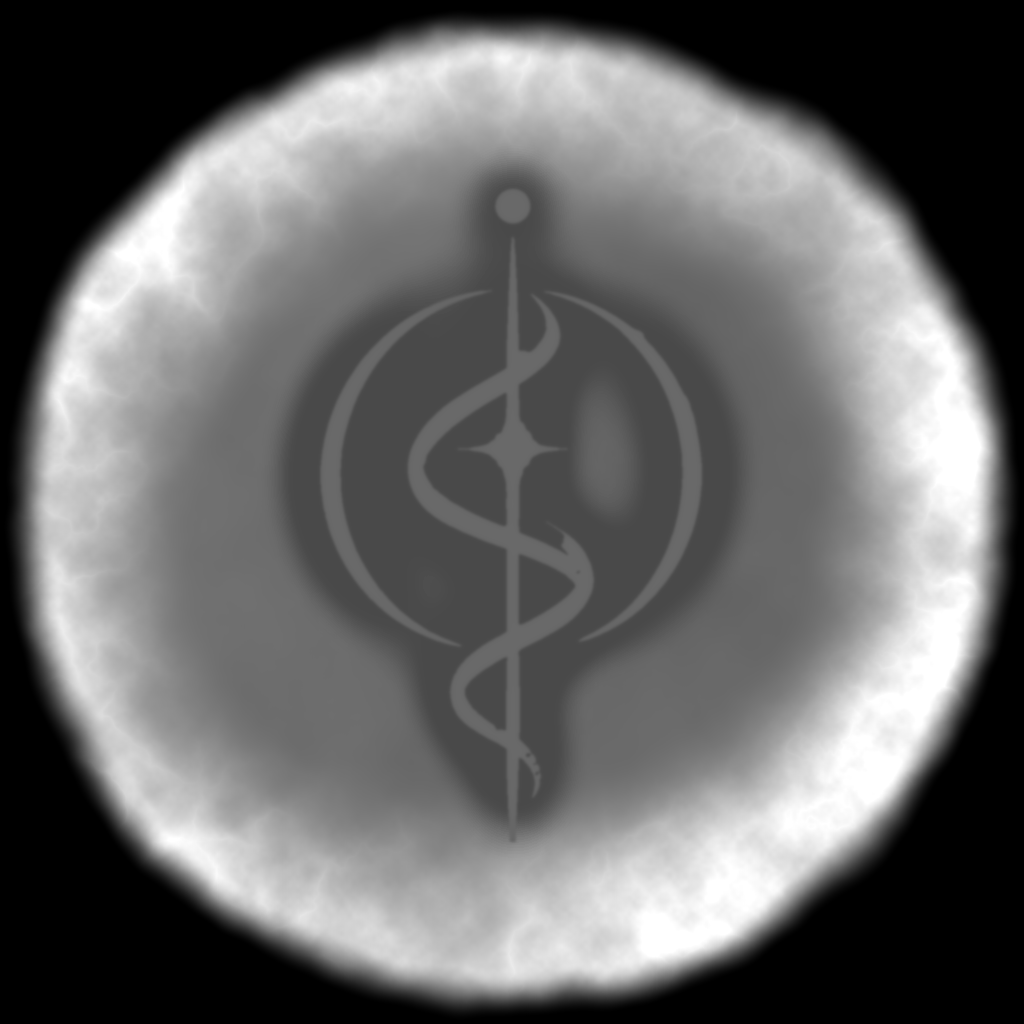
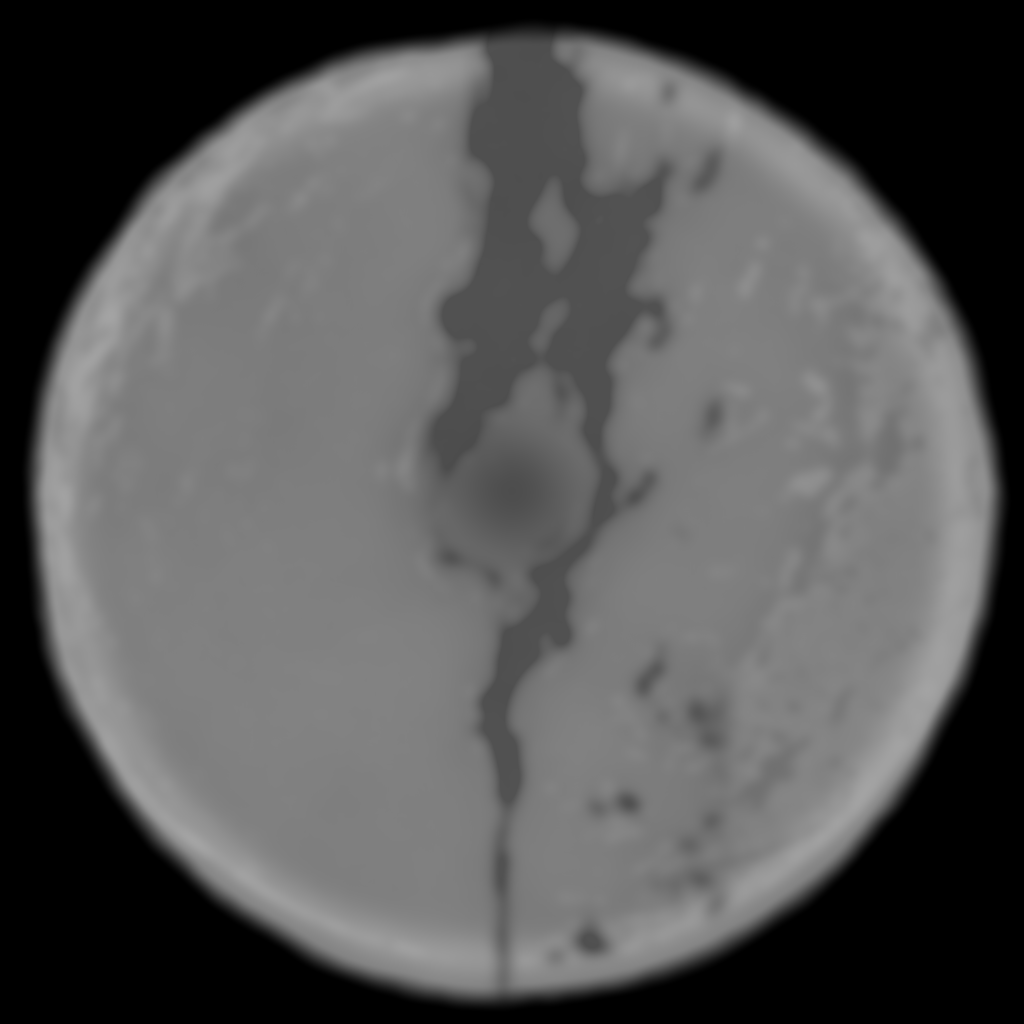
Troca o relevo da ilha pela lua rachada de A Ordem, com a fenda de Metrito e os fragmentos em coluna

diff --git a/src/components/MundoOrdem.jsx b/src/components/MundoOrdem.jsx
@@ -3,13 +3,14 @@ import * as THREE from "three";
 import urlAltura from "../assets/terreno/altura.png";
 import urlCor from "../assets/terreno/cor.jpg";
 import urlBrilho from "../assets/terreno/brilho.png";
-import urlEmblema from "../assets/emblema.png";
+import urlEmblema from "../assets/emblema-titulo.png";
 
 // ─────────────────────────────────────────────
-// MUNDO 3D DA ABERTURA — o Terreno Suspenso do emblema
+// MUNDO 3D DA ABERTURA — a lua rachada de A Ordem
 // Uma ilha flutuante cujo relevo sai de src/assets/terreno/altura.png, gerado a
-// partir do emblema dos Scrips (scripts/gerar_terreno.py). O emblema brilha como
-// Metrito no meio de um lago, e as escolas da Ordem são luzes nas montanhas.
+// partir do emblema de A Ordem (scripts/gerar_terreno.py): o disco da lua partido
+// por uma fenda onde o Metrito brilha, com os fragmentos subindo num feixe de luz.
+// As escolas da Ordem são luzes no planalto.
 // Rolar move a câmera; arrastar gira a ilha; clicar numa luz abre a escola.
 // ─────────────────────────────────────────────
 
@@ -351,29 +352,39 @@ export default function MundoOrdem({ escolas = [], onEscola, children }) {
     // A ilha (montada quando as imagens do terreno chegam) e as ilhas menores ao longe
     const ilha = new THREE.Group();
     scene.add(ilha);
-    const matRocha = g(new THREE.MeshStandardMaterial({ color: "#24343c", roughness: 0.92, metalness: 0.05 }));
     const matBase = g(new THREE.MeshStandardMaterial({ color: "#141d22", roughness: 1, flatShading: true }));
 
-    const satelites = [
-      [-17, -2.5, -9, 1.6],
-      [15, 1.5, -14, 1.2],
-      [19, -4, 6, 2],
-      [-14, 2.5, 13, 1.1],
-      [3, -5, -22, 1.8],
-    ];
-    satelites.forEach(([x, y, z, s], i) => {
-      const grupo = new THREE.Group();
-      const topo = new THREE.Mesh(g(new THREE.CylinderGeometry(1, 0.9, 0.3, 24)), matRocha.clone());
-      topo.material.vertexColors = false;
-      topo.material.color.set("#24343c");
-      g(topo.material);
-      grupo.add(topo);
-      grupo.add(new THREE.Mesh(g(malhaBase(1, 2.4, i * 7.7)), matBase));
-      grupo.position.set(x, y, z);
-      grupo.scale.setScalar(s);
-      grupo.userData.fase = i;
-      scene.add(grupo);
-    });
+    // Fragmentos arrancados pela queda, subindo em coluna sobre a fenda
+    const geoFragmento = g(new THREE.IcosahedronGeometry(1, 1));
+    {
+      const p = geoFragmento.attributes.position;
+      const v = new THREE.Vector3();
+      for (let i = 0; i < p.count; i++) {
+        v.fromBufferAttribute(p, i);
+        v.multiplyScalar(0.75 + 0.5 * ruido(v.x * 2 + 5, v.y * 2 + v.z * 3));
+        p.setXYZ(i, v.x, v.y * 0.7, v.z);
+      }
+      geoFragmento.computeVertexNormals();
+    }
+    const matFragmento = g(new THREE.MeshStandardMaterial({ color: "#8f846f", roughness: 0.95, flatShading: true }));
+    for (let i = 0; i < 16; i++) {
+      const f = new THREE.Mesh(geoFragmento, matFragmento);
+      const subida = i / 15;
+      f.position.set((Math.random() - 0.4) * (0.8 + subida * 1.5), 2.2 + subida * 11 + Math.random() * 0.6, -0.4 + (Math.random() - 0.5) * 2.4);
+      f.scale.setScalar(0.12 + Math.random() * 0.35 * (1 - subida * 0.6));
+      f.rotation.set(Math.random() * 3, Math.random() * 3, Math.random() * 3);
+      f.userData.fase = i;
+      f.userData.gira = (Math.random() - 0.5) * 0.004;
+      scene.add(f);
+    }
+
+    // O risco vertical da arte: um feixe de luz atravessando a ilha
+    const feixeQueda = new THREE.Mesh(
+      g(new THREE.CylinderGeometry(0.025, 0.025, 40, 8, 1, true)),
+      g(new THREE.MeshBasicMaterial({ color: OURO, transparent: true, opacity: 0.35, blending: THREE.AdditiveBlending, depthWrite: false })),
+    );
+    feixeQueda.position.set(0, 6, -0.38);
+    scene.add(feixeQueda);
 
     // Mar de nuvens embaixo
     const matNuvem = g(new THREE.SpriteMaterial({ map: brilho, color: "#4c6378", transparent: true, opacity: 0.16, depthWrite: false }));
@@ -414,16 +425,6 @@ export default function MundoOrdem({ escolas = [], onEscola, children }) {
       const borda = r.altura(RAIO_ILHA, 0);
       ilha.add(new THREE.Mesh(g(malhaBase(RAIO_ILHA * 1.01, 7, 3.1, borda + 0.1)), matBase));
 
-      if (r.imagens) {
-        const lago = new THREE.Mesh(
-          g(new THREE.CircleGeometry(RAIO_ILHA * 0.97, 128)),
-          g(new THREE.MeshBasicMaterial({ color: "#071116", transparent: true, opacity: 0.86 })),
-        );
-        lago.rotation.x = -Math.PI / 2;
-        lago.position.y = 0.02;
-        ilha.add(lago);
-      }
-
       const pos = [];
       const fases = [];
       const cores = [];
@@ -434,7 +435,7 @@ export default function MundoOrdem({ escolas = [], onEscola, children }) {
         const z = (Math.random() * 2 - 1) * RAIO_ILHA * 0.8;
         const b = r.brilho(x, z);
         if (b < 0.35) continue;
-        pos.push(x, Math.max(r.altura(x, z), 0) + 0.05, z);
+        pos.push(x, r.altura(x, z) + 0.05, z);
         fases.push(Math.random());
         cores.push(ouro.r * b, ouro.g * b, ouro.b * b);
         sobe.push(Math.random() < 0.35 ? 0.4 : 0);
@@ -446,9 +447,9 @@ export default function MundoOrdem({ escolas = [], onEscola, children }) {
       geo.setAttribute("sobe", new THREE.Float32BufferAttribute(sobe, 1));
       ilha.add(new THREE.Points(geo, matPoeira));
 
-      // A estrela do emblema fica um pouco acima do centro da imagem
-      const zEstrela = r.imagens ? -1.1 : 0;
-      nucleo.position.set(0, Math.max(r.altura(0, zEstrela), 0) + 0.3, zEstrela);
+      // A cratera no meio da rachadura fica um pouco acima do centro da arte
+      const zEstrela = r.imagens ? -0.38 : 0;
+      nucleo.position.set(0, r.altura(0, zEstrela) + 0.3, zEstrela);
       metrito.position.set(0, nucleo.position.y + 0.4, zEstrela);
       ilha.add(nucleo);
       montarEscolas(escolasPendentes);
@@ -472,7 +473,7 @@ export default function MundoOrdem({ escolas = [], onEscola, children }) {
         brasas.geometry.dispose();
         brasas = null;
       }
-      const raios = [7.3, 7.6];
+      const raios = [6.2, 6.6];
       const pBrasa = [];
       const fBrasa = [];
       const cBrasa = [];
@@ -590,6 +591,10 @@ export default function MundoOrdem({ escolas = [], onEscola, children }) {
         ilha.position.y = Math.sin(t * 0.4) * 0.12;
         scene.children.forEach((o) => {
           if (o.userData.fase != null) o.position.y += Math.sin(t * 0.3 + o.userData.fase) * 0.002;
+          if (o.userData.gira) {
+            o.rotation.x += o.userData.gira;
+            o.rotation.y += o.userData.gira * 0.7;
+          }
         });
       }
       matPoeira.uniforms.tempo.value = t;
@@ -751,8 +756,7 @@ export default function MundoOrdem({ escolas = [], onEscola, children }) {
         {!entrou && (
           <div style={st.portao}>
             <img src={urlEmblema} alt="Emblema dos Scrips" style={st.emblema} />
-            <p style={st.portaoTitulo}>A QUEDA DE UMA ORDEM</p>
-            <p style={st.portaoFrase}>Diferentes por natureza. Unidos pela mesma origem.</p>
+            <p style={st.portaoFrase}>“Esqueça tudo o que acredita saber. O que vou te revelar... muda tudo.”</p>
             <div style={st.portaoBotoes}>
               <button type="button" style={st.portaoBotao} onClick={() => entrar(true)}>
                 ENTRAR COM SOM
@@ -846,8 +850,7 @@ const st = {
     padding: "24px",
     textAlign: "center",
   },
-  emblema: { height: "min(320px, 42vh)", width: "auto", marginBottom: 4 },
-  portaoTitulo: { margin: 0, letterSpacing: "6px", fontSize: "0.9em", color: "#e8d08a" },
+  emblema: { height: "min(400px, 50vh)", width: "auto", marginBottom: 4 },
   portaoFrase: { margin: 0, maxWidth: 420, fontStyle: "italic", color: "#8a7a55", fontSize: "0.95em", lineHeight: 1.6 },
   portaoBotoes: { display: "flex", flexWrap: "wrap", gap: 12, justifyContent: "center", marginTop: 18 },
   portaoBotao: {

diff --git a/scripts/gerar_terreno.py b/scripts/gerar_terreno.py
@@ -1,12 +1,13 @@
-"""Gera as imagens do Terreno Suspenso a partir do emblema dos Scrips.
+"""Gera as imagens do Terreno Suspenso a partir do emblema de A Ordem (a lua rachada).
 
     python scripts/gerar_terreno.py
 
-Saídas em src/assets/terreno/:
-  altura.png  mapa de altura (claro = alto), lido pelo MundoOrdem.jsx
-  cor.jpg     cor do terreno (rocha, musgo, água, bronze no emblema)
-  brilho.png  onde o Metrito brilha (o emblema)
-e src/assets/emblema.png, o símbolo recortado com fundo transparente.
+Saídas:
+  src/assets/terreno/altura.png  mapa de altura (claro = alto), lido pelo MundoOrdem.jsx
+  src/assets/terreno/cor.jpg     cor do terreno, nos tons da arte (osso sobre rocha escura)
+  src/assets/terreno/brilho.png  onde o Metrito brilha (a fenda e a cratera)
+  src/assets/emblema.png         o símbolo recortado, para o menu
+  src/assets/emblema-titulo.png  o símbolo com "A ORDEM", para a tela de entrada
 """
 from pathlib import Path
 
@@ -14,14 +15,17 @@ import numpy as np
 from PIL import Image, ImageFilter
 
 RAIZ = Path(__file__).resolve().parent.parent
-ORIGEM = RAIZ / "arte" / "emblema-scrips.png"
+ORIGEM = RAIZ / "arte" / "emblema-ordem.png"
 SAIDA = RAIZ / "src" / "assets" / "terreno"
 N = 1024
 rng = np.random.default_rng(7)
 
+# Onde a lua está na arte original (440 × 616)
+CX, CY, RAIO = 219, 290, 111
+FENDA_X = (200, 266)  # faixa onde corre a rachadura
+
 
 def ruido(oitavas=6, base=4, ganho=0.5):
-    """fbm entre 0 e 1: grades aleatórias ampliadas e somadas."""
     total = np.zeros((N, N))
     amp, soma = 1.0, 0.0
     for o in range(oitavas):
@@ -43,63 +47,68 @@ def suave(a, b, x):
     return t * t * (3 - 2 * t)
 
 
-# Emblema: recorta o símbolo (sem o texto "SCRIPS") e faz a máscara
+def recorte_transparente(img, caixa, altura):
+    parte = img.crop(caixa)
+    lum = np.asarray(parte.convert("L"), dtype=float)
+    alfa = np.clip((lum - 40) / 110, 0, 1)
+    rgba = np.dstack([np.asarray(parte), (alfa * 255).astype(np.uint8)])
+    largura = round(altura * parte.width / parte.height)
+    return Image.fromarray(rgba, "RGBA").resize((largura, altura), Image.LANCZOS)
+
+
 fonte = Image.open(ORIGEM).convert("RGB")
-simbolo = fonte.crop((180, 80, 840, 1160))
-lum = np.asarray(simbolo.convert("L"), dtype=float)
+recorte_transparente(fonte, (95, 60, 345, 430), 300).save(RAIZ / "src" / "assets" / "emblema.png", optimize=True)
+recorte_transparente(fonte, (40, 60, 400, 530), 560).save(RAIZ / "src" / "assets" / "emblema-titulo.png", optimize=True)
 
-alfa = np.clip((lum - 30) / 120, 0, 1)
-rgba = np.dstack([np.asarray(simbolo), (alfa * 255).astype(np.uint8)])
-emblema = Image.fromarray(rgba, "RGBA")
-emblema.resize((330, 540), Image.LANCZOS).save(RAIZ / "src" / "assets" / "emblema.png", optimize=True)
+# A lua ocupa a ilha inteira: amplia o disco para N × N
+escala = (N / 2 * 0.94) / RAIO
+lado = round(N / escala)
+caixa = (CX - lado // 2, CY - lado // 2, CX - lado // 2 + lado, CY - lado // 2 + lado)
+lua = fonte.convert("L").crop(caixa).resize((N, N), Image.BICUBIC)
+lum = np.asarray(lua.filter(ImageFilter.GaussianBlur(1.5)), dtype=float) / 255
 
-alt_emb = 660
-larg_emb = round(alt_emb * simbolo.width / simbolo.height)
-masc_img = Image.fromarray((lum > 35).astype(np.uint8) * 255).filter(ImageFilter.GaussianBlur(2.5))
-masc_img = masc_img.point(lambda v: 255 if v > 70 else 0).resize((larg_emb, alt_emb), Image.LANCZOS)
-masc = np.zeros((N, N))
-x0, y0 = (N - larg_emb) // 2, (N - alt_emb) // 2
-masc[y0 : y0 + alt_emb, x0 : x0 + larg_emb] = np.asarray(masc_img, dtype=float) / 255
-
-# Coordenadas radiais da ilha
 yy, xx = np.mgrid[0:N, 0:N]
-r = np.hypot(xx - N / 2, yy - N / 2) / (N / 2)
-ang = np.arctan2(yy - N / 2, xx - N / 2)
+r = np.hypot(xx - N / 2, yy - N / 2) / (N / 2 * 0.94)
 
-# Relevo
-planalto = 0.42 + (ruido(6, 4) - 0.5) * 0.12
-cristas = (1 - np.abs(ruido(7, 3) * 2 - 1)) * 0.6 + (1 - np.abs(ruido(5, 16) * 2 - 1)) * 0.4  # ruído "ridged", parece erosão
-montanhas = suave(0.55, 0.92, r + (ruido(4, 3) - 0.5) * 0.25) * (0.25 + 0.45 * cristas**2)
-# Lago em volta do emblema; o emblema fica pouco acima da água, como ilhas
-lago = suave(0.02, 0.12, borrar(masc, 34))
-emb_suave = borrar(masc, 1.2)
-altura = (planalto + montanhas) * (1 - lago) + 0.29 * lago
-altura = altura * (1 - emb_suave) + (0.385 + borrar(masc, 4) * 0.03) * emb_suave
-borda = 1 - suave(0.9, 1.0, r + (ruido(4, 6) - 0.5) * 0.08)
-altura = np.clip(altura * borda, 0, 1)
+# Rachadura: as partes claras dentro da faixa central da arte
+x_arte = caixa[0] + xx / escala
+faixa = suave(FENDA_X[0] - 6, FENDA_X[0] + 4, x_arte) * (1 - suave(FENDA_X[1] - 4, FENDA_X[1] + 6, x_arte))
+fenda = np.clip(borrar((lum > 0.55) * faixa, 7) * 1.5, 0, 1)
+
+# Cratera no centro da rachadura
+cx_c, cy_c = N / 2, N / 2 - 0.045 * N / 2 * 0.94
+rc = np.hypot(xx - cx_c, yy - cy_c) / (N * 0.085)
+cratera = np.exp(-(rc**2) * 1.6)
+
+# Relevo: planalto com a textura da lua, borda levantada, fenda funda
+textura = borrar(lum, 5) - borrar(lum, 28)
+planalto = 0.5 + textura * 0.14 + (ruido(6, 5) - 0.5) * 0.05
+borda_alta = np.exp(-(((r - 0.93) / 0.05) ** 2)) * 0.1
+altura = planalto + borda_alta
+altura = altura * (1 - fenda) + (0.3 + ruido(5, 12) * 0.03) * fenda
+altura = altura * (1 - cratera * 0.8) + 0.26 * cratera * 0.8
+queda = 1 - suave(0.97, 1.03, r + (ruido(4, 8) - 0.5) * 0.04)
+altura = np.clip(altura * queda, 0, 1)
 
 SAIDA.mkdir(parents=True, exist_ok=True)
 Image.fromarray((altura * 255).astype(np.uint8)).save(SAIDA / "altura.png", optimize=True)
 
-# Cor
+
 def cor(hexa):
     return np.array([int(hexa[i : i + 2], 16) for i in (1, 3, 5)], dtype=float) / 255
 
-agua = cor("#0c1c24")
-musgo = cor("#2a4636")
-rocha = cor("#3a4c55")
-pico = cor("#6e8490")
-bronze = cor("#5a4a2e")
-var = ruido(6, 8)[..., None]
-c = np.broadcast_to(musgo, (N, N, 3)) * (0.75 + 0.5 * var)
-c = c * (1 - suave(0.5, 0.62, altura)[..., None]) + rocha * (0.8 + 0.4 * var) * suave(0.5, 0.62, altura)[..., None]
-c = c * (1 - suave(0.68, 0.85, altura)[..., None]) + pico * suave(0.68, 0.85, altura)[..., None]
-molhado = suave(0.36, 0.3, altura)[..., None]
-c = c * (1 - molhado) + agua * molhado
-emb = borrar(masc, 2)[..., None]
-c = c * (1 - emb) + bronze * (0.8 + 0.4 * var) * emb
+
+escuro = cor("#1f1d1a")
+osso = cor("#b9ab90")
+fundo_fenda = cor("#2a1f12")
+var = ruido(6, 10)[..., None]
+claro = suave(0.25, 0.75, lum)[..., None]
+c = escuro * (1 - claro) + osso * claro
+c = c * (0.85 + 0.3 * var)
+f = np.clip(fenda + cratera * 0.8, 0, 1)[..., None]
+c = c * (1 - f) + fundo_fenda * f
 Image.fromarray((np.clip(c, 0, 1) * 255).astype(np.uint8)).save(SAIDA / "cor.jpg", quality=86)
 
-brilho = np.clip(borrar(masc, 1.5) * 0.9 + borrar(masc, 10) * 0.35, 0, 1)
+brilho = np.clip(suave(0.55, 0.95, fenda) * 0.9 + cratera * 0.7, 0, 1) * queda
 Image.fromarray((brilho * 255).astype(np.uint8)).save(SAIDA / "brilho.png", optimize=True)
 print("ok")
